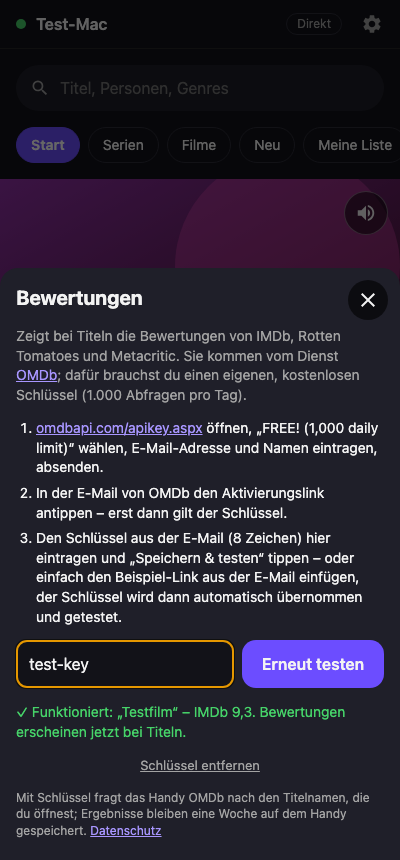
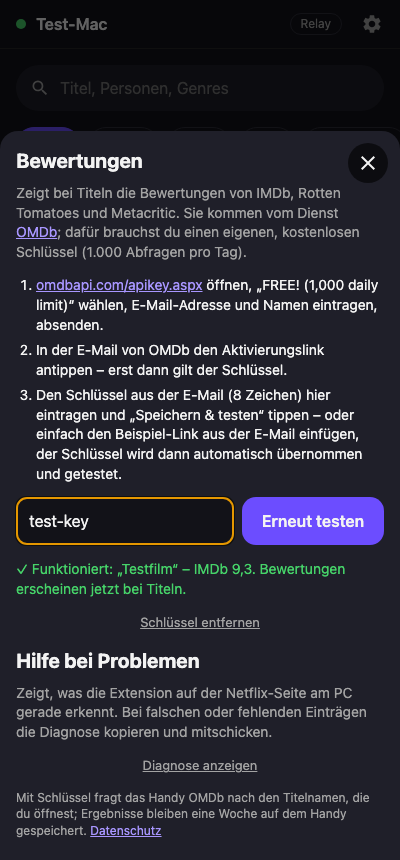
Search shows the results, diagnosis in the settings, version 2.2.9
After a search Netflix loads /search?q=… fresh and first shows other
titles, replacing them with the result grid a moment later. The phone
read too early and kept those titles until a manual reload.

- Extension: on the search page only titles in the result grid count
  (searchResults selectors), not rows or suggestions around it.
- Phone: on the search page it asks again for up to eight seconds and
  takes new results until the list stays the same twice in a row.
- The diagnosis is now also in the settings ("Hilfe bei Problemen"),
  on every page, and lists the first titles per row and the search grid.

The fake Netflix search page shows other titles first and the results
after 1.5 s; E2E checks that only the results remain.

Changed region(s): [[0.0, 0.1512, 1.0, 0.907], [0.75, 0.0, 0.81, 0.0302]]

diff --git a/extension/src/netflix/catalog.ts b/extension/src/netflix/catalog.ts
@@ -92,11 +92,11 @@ function detailRoot(doc: Document): HTMLElement | null {
 
 // ---- reading ---------------------------------------------------------------------
 
-function readRows(doc: Document): CatalogRow[] {
+function readRows(doc: Document, root: ParentNode = doc): CatalogRow[] {
     const modal = detailRoot(doc);
     const rows = new Map<Element | null, CatalogRow & { seen: Set<string> }>();
 
-    for (const a of doc.querySelectorAll<HTMLAnchorElement>(SEL.titleLinks)) {
+    for (const a of root.querySelectorAll<HTMLAnchorElement>(SEL.titleLinks)) {
         if (modal?.contains(a) || closest(a, SEL.billboard)) continue;
         const id = videoIdFromHref(a.getAttribute('href'));
         if (!id) continue;
@@ -218,7 +218,9 @@ async function setPreviewSound(doc: Document, muted: boolean): Promise<CommandRe
 
 export function readCatalog(doc: Document, offset = 0, limit = 8): Catalog {
     const page = detectPageKind(location, doc);
-    const rows = page === 'profiles' ? [] : readRows(doc).filter((r) => r.items.length);
+    // Search: only the result grid counts, once Netflix has rendered it (before that it shows other rows).
+    const results = page === 'search' ? q(doc, SEL.searchResults) : null;
+    const rows = page === 'profiles' ? [] : readRows(doc, results ?? doc).filter((r) => r.items.length);
     return {
         page,
         rows: rows.slice(offset, offset + limit),
@@ -279,7 +281,14 @@ export function diagnose(doc: Document): Record<string, unknown> {
         location: location.pathname + location.search,
         page: catalog.page,
         titleLinks: links.length,
-        rows: catalog.rows.map((r) => `${r.title || '(ohne Titel)'}: ${r.items.length}`),
+        rows: catalog.rows.map(
+            (r) =>
+                `${r.title || '(ohne Titel)'}: ${r.items.length} – ${r.items
+                    .slice(0, 4)
+                    .map((i) => i.name)
+                    .join(', ')}`,
+        ),
+        searchResults: catalog.page === 'search' ? (q(doc, SEL.searchResults) ? describe(q(doc, SEL.searchResults), 3) : 'nicht gefunden') : undefined,
         profiles: catalog.profiles.map((p) => p.name),
         detail: catalog.detail && { title: catalog.detail.title, episodes: catalog.detail.episodes.length, seasons: catalog.detail.seasons },
         billboard: catalog.billboard && { ...catalog.billboard, img: !!catalog.billboard.img, logo: !!catalog.billboard.logo },
@@ -295,6 +304,7 @@ export function diagnose(doc: Document): Record<string, unknown> {
             previewAudioToggle: count(SEL.previewAudioToggle),
             video: count('video'),
             episode: count(SEL.episode),
+            searchResults: count(SEL.searchResults),
         },
         sampleLinks: links.slice(0, 5).map((a) => ({
             href: a.getAttribute('href')?.slice(0, 60),

diff --git a/remote/src/main.tsx b/remote/src/main.tsx
@@ -10,7 +10,7 @@ import {
     type PlayerState,
     type RemoteState,
 } from '../../shared/protocol';
-import { CatalogView } from './catalog';
+import { CatalogView, Diagnose } from './catalog';
 import { RemoteClient, deviceName, type ClientSnapshot } from './client';
 import { Icon, type IconName } from './icons';
 import { activePeerId, consumePairingFromUrl, loadPairings, removePairing, setActive } from './pairings';
@@ -143,7 +143,9 @@ function App() {
                 )}
             </main>
             {toast && <div class="toast">{toast}</div>}
-            {settings && <Settings onClose={() => setSettings(false)} />}
+            {settings && (
+                <Settings onClose={() => setSettings(false)} query={snap?.status === 'connected' ? query : null} />
+            )}
         </div>
     );
 }
@@ -187,7 +189,11 @@ const KEY_ERRORS: Record<RatingsError, string> = {
 };
 
 /** Ratings setup: each user brings an own free OMDb key; nothing is requested without one. */
-function Settings({ onClose }: { onClose: () => void }) {
+function Settings({ onClose, query }: {
+    onClose: () => void;
+    /** Only while connected: lets the user see how the extension reads the current Netflix page. */
+    query: ((cmd: CatalogCommand) => Promise<CommandResult>) | null;
+}) {
     const saved = useOmdbKey();
     const [key, setKey] = useState(saved ?? '');
     const [busy, setBusy] = useState(false);
@@ -275,6 +281,16 @@ function Settings({ onClose }: { onClose: () => void }) {
                     <button class="link" onClick={() => (setOmdbKey(null), setKey(''), setResult(null))}>
                         Schlüssel entfernen
                     </button>
+                )}
+                {query && (
+                    <>
+                        <h2>Hilfe bei Problemen</h2>
+                        <p class="muted">
+                            Zeigt, was die Extension auf der Netflix-Seite am PC gerade erkennt. Bei falschen oder fehlenden
+                            Einträgen die Diagnose kopieren und mitschicken.
+                        </p>
+                        <Diagnose query={query} />
+                    </>
                 )}
                 <p class="muted legal">
                     Mit Schlüssel fragt das Handy OMDb nach den Titelnamen, die du öffnest; Ergebnisse bleiben eine Woche

diff --git a/remote/src/catalog.tsx b/remote/src/catalog.tsx
@@ -67,6 +67,34 @@ function useCatalog(state: RemoteState, query: Query) {
         if (gen !== generation.current) return;
         setLoading(false);
         void loadLate(gen);
+        void settleSearch(gen);
+    };
+
+    /**
+     * Search results: after navigating, Netflix first shows other titles and replaces them with the
+     * results a moment later. Keep asking until the list stays the same twice in a row.
+     */
+    const settleSearch = async (gen: number) => {
+        const ids = (c: Catalog | null) => c?.rows.flatMap((r) => r.items.map((i) => i.id)).join() ?? '';
+        let current: Catalog | null = null;
+        setCatalog((c) => (current = c));
+        if ((current as Catalog | null)?.page !== 'search') return;
+        let unchanged = 0;
+        for (let attempt = 0; attempt < LATE_RETRIES && unchanged < 2; attempt++) {
+            await new Promise((r) => setTimeout(r, LATE_MS));
+            if (gen !== generation.current) return;
+            const res = await query({ type: 'catalog.get', offset: 0, limit: PAGE_SIZE });
+            if (gen !== generation.current || !res.ok) return;
+            const data = res.data as Catalog;
+            if (data.page !== 'search') return;
+            if (ids(data) === ids(current) || !data.rows.length) {
+                unchanged++;
+                continue;
+            }
+            unchanged = 0;
+            current = data;
+            setCatalog(data);
+        }
     };
 
     /** Adds the billboard and the preview sound state once Netflix has them, without rebuilding the rows. */
@@ -425,7 +453,7 @@ function Empty({ loading, error, onReload, query }: {
 }
 
 /** Shows how the extension sees the Netflix page, so users can send it when the catalog stays empty. */
-function Diagnose({ query }: { query: Query }) {
+export function Diagnose({ query }: { query: Query }) {
     const [report, setReport] = useState<string | null>(null);
     const [copied, setCopied] = useState(false);
     const run = async () => {

diff --git a/tests/unit/catalog.test.ts b/tests/unit/catalog.test.ts
@@ -86,6 +86,13 @@ describe('readCatalog', () => {
         expect(c.rows[0].items.map((i) => i.name)).toEqual(['A', 'B']);
     });
 
+    it('takes only the result grid on the search page, not rows or suggestions around it', () => {
+        history.replaceState(null, '', '/search?q=dark');
+        document.body.innerHTML = BROWSE + `<div class="search-page"><div class="gallery search">${card('1', 'Dark')}${card('2', 'Dark Matter')}</div></div>`;
+        const c = readCatalog(document);
+        expect(c.rows.flatMap((r) => r.items.map((i) => i.name))).toEqual(['Dark', 'Dark Matter']);
+    });
+
     it('reads the billboard with logo, synopsis and background image', () => {
         document.body.innerHTML =
             `<div class="billboard-row"><div class="billboard billboard-pane">
@@ -239,7 +246,7 @@ describe('diagnose', () => {
         document.body.innerHTML = BROWSE;
         const d = diagnose(document) as any;
         expect(d.page).toBe('browse');
-        expect(d.rows).toEqual(['Weiterschauen für Marcus: 2', 'Derzeit beliebt: 1']);
+        expect(d.rows).toEqual(['Weiterschauen für Marcus: 2 – Dark, Stranger Things', 'Derzeit beliebt: 1 – Squid Game']);
         expect(d.titleLinks).toBeGreaterThan(3);
         expect(d.sampleLinks.some((l: any) => l.path.includes('div.lolomoRow'))).toBe(true);
     });

diff --git a/tests/e2e/fake-netflix.html b/tests/e2e/fake-netflix.html
@@ -40,7 +40,12 @@
             const row = (title, items) => `<div class="lolomoRow" data-list-context="x"><h2 class="rowHeader"><div class="row-header-title">${title}</div></h2>${items.map(([id, n, p]) => card(id, n, p)).join('')}</div>`;
             if (path.startsWith('/search')) {
                 const q = params.get('q');
-                document.body.innerHTML = `<div class="search-gallery">${card('7001', q + ' – Film')}${card('7002', q + ' – Serie')}</div>`;
+                // Like Netflix after a page load: first other titles, the result grid a moment later.
+                document.body.innerHTML = header + row('Beliebte Suchen', [['81040344', 'Rotes Licht'], ['80057281', 'Sternenstaub']]);
+                setTimeout(() => {
+                    document.body.innerHTML =
+                        header + `<div class="search-page"><div class="gallery search">${card('7001', q + ' – Film')}${card('7002', q + ' – Serie')}</div></div>`;
+                }, 1500);
             } else {
                 const filler = (r) => Array.from({ length: 30 }, (_, i) => [`${60000 + r * 100 + i}`, `Titel ${r}-${i}`]);
                 // Billboard: full-width recommendation with title logo; Netflix plays its trailer here.

diff --git a/extension/src/netflix/selectors.ts b/extension/src/netflix/selectors.ts
@@ -31,6 +31,8 @@ export const SEL = {
     rowTitle: ['.row-header-title', '[data-uia="row-title"]', 'h2', 'h3'],
     cardName: ['.fallback-text', '[data-uia="title-card-name"]'],
     progress: ['[class*="progress-completed"]', 'progress'],
+    /** The result grid of the search page; titles elsewhere on that page (suggestions, rows) are not results. */
+    searchResults: ['[data-uia="search-gallery"]', '.search-page .gallery', '.gallery.search', '.galleryLockups', '.search-gallery', '.gallery'],
     /** Hero banner on top of browse pages ("billboard", its trailer plays automatically). */
     billboard: ['.billboard-row', '[data-uia="billboard"]', '.billboard'],
     billboardLogo: ['[data-uia="billboard-title"] img', '.billboard-title img', 'img.title-logo'],

diff --git a/remote/src/style.css b/remote/src/style.css
@@ -164,7 +164,10 @@ input[type='range'] { width: 100%; accent-color: var(--accent); height: 32px; }
 /* Settings */
 .header-btn { margin: -8px -8px -8px auto; width: 40px; height: 40px; border: 0; border-radius: 50%; background: transparent; color: var(--muted); display: grid; place-items: center; }
 .via + .header-btn { margin-left: 0; }
+.settings { max-height: 88vh; overflow-y: auto; }
 .settings h2 { margin: 0; padding-right: 48px; }
+.settings h2 + p { margin-top: -6px; }
+.settings .diagnose textarea { background: var(--bg); }
 .settings .sheet-close { top: 12px; right: 12px; }
 .settings p { margin: 0; }
 .settings a { color: #a896ff; }

diff --git a/README.md b/README.md
@@ -142,7 +142,7 @@ und MQTT-Relay.
 
 | Problem | Lösung |
 |---------|--------|
-| Übersicht bleibt leer | In der Handy-App „Diagnose anzeigen“ → „Kopieren“ und als [Issue](https://github.com/MacBuchi/netflix-remote/issues) melden. Netflix hat dann vermutlich das Seiten-Markup geändert; anzupassen ist `extension/src/netflix/selectors.ts`. |
+| Übersicht leer, Einträge falsch oder unpassend | In der Handy-App Zahnrad → „Hilfe bei Problemen“ → „Diagnose anzeigen“ → „Kopieren“ und als [Issue](https://github.com/MacBuchi/netflix-remote/issues) melden (bei leerer Übersicht steht der Knopf auch direkt dort). Netflix hat dann vermutlich das Seiten-Markup geändert; anzupassen ist `extension/src/netflix/selectors.ts`. |
 | „Netflix-Seite antwortet nicht“ | Netflix-Tab neu laden – nach einem Update der Extension ist das alte Content-Script abgekoppelt. |
 | Handy verbindet sich nicht | Im Popup muss „Direkt: bereit · Relay: bereit“ stehen. Sonst Internetverbindung des PCs prüfen oder unter „Erweitert“ andere Server eintragen. |
 | „Kopplung ungültig“ | Im Popup wurde „Neu koppeln“ gedrückt; QR-Code neu scannen. |

diff --git a/PLAN.md b/PLAN.md
@@ -5,7 +5,7 @@ steuert nicht nur den Player (Play/Pause, Spulen, Lautstärke, Untertitel …), 
 auch den **Katalog**: Zeilen durchblättern, Titel ansehen, suchen, Profil wählen und
 einen Film/eine Folge starten.
 
-> **Stand (Version 2.2.8):** Phasen 0–3 sind umgesetzt und mit echtem Netflix getestet (Kopplung,
+> **Stand (Version 2.2.9):** Phasen 0–3 sind umgesetzt und mit echtem Netflix getestet (Kopplung,
 > Relay im Hotel-WLAN, Player, Film-Browser mit Bildern, Vorschau, Suche und Bereichen). Offen sind
 > nur noch optionale Punkte, siehe [Abschnitt 5](#5-umsetzung-in-phasen). Wo die Umsetzung vom
 > ursprünglichen Plan abweicht, ist es in den Abschnitten vermerkt.
